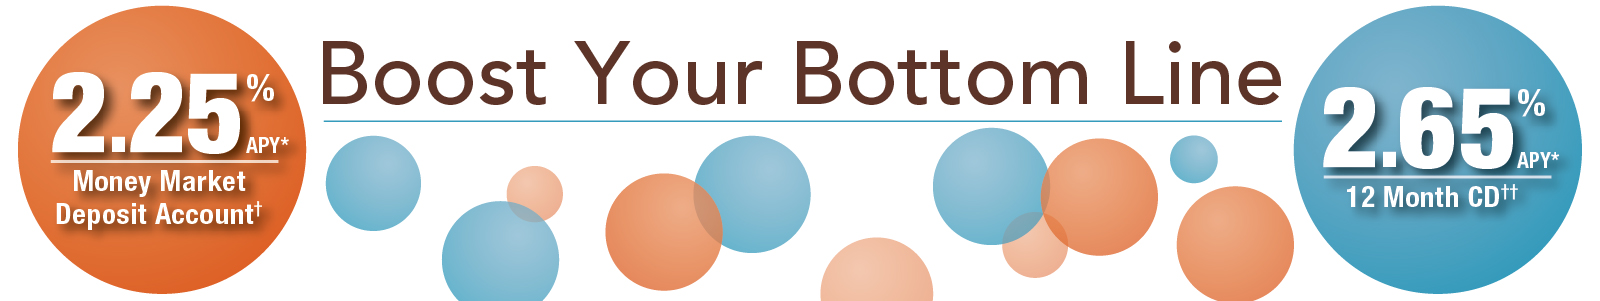
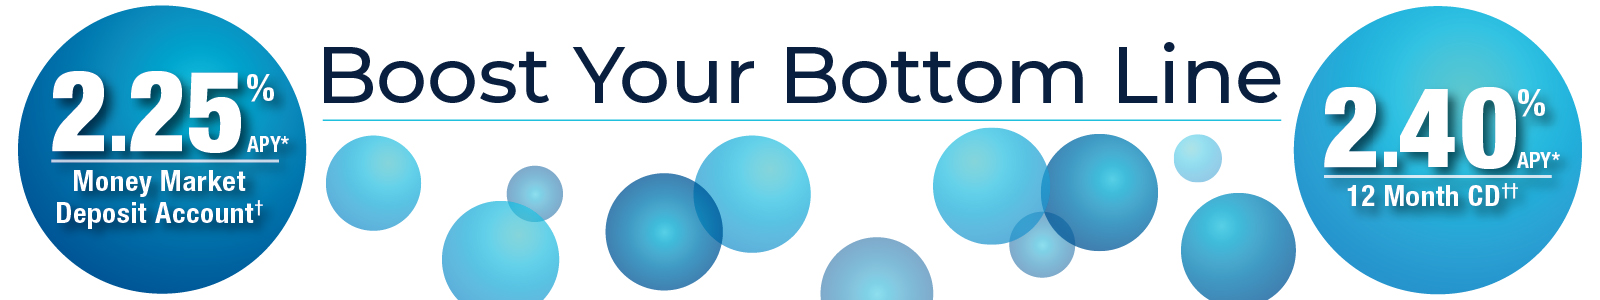
change to Money Market Promo

diff --git a/savings.html b/savings.html
@@ -137,7 +137,7 @@
               </div>
             </div><!-- row -->
             <div class="row spacer">
-              <p class="small para-margin"><sup>*</sup>Annual Percentage Yield (APY) <sup>†</sup>Money Market Deposit Account: Promotional rate of 2.25% APY for new accounts effective as of 11/12/18 and guaranteed for the first 365 days after account opening. Promotional rate offered on $10,000.00 or more of new money not currently on deposit within last 30 days with CIBM Bank. Minimum opening deposit of $100.00. The interest rate is subject to change at any time after initial 365 days. As of 10/10/18 Personal Money Market balances of $0.00-$9,999.99 (.08% APY); $10,000.00-$24,999.99 (.10% APY); $25,000.00-$49,999.99 (.13% APY); $50,000.00-$99,999.99 (.14% APY); $100,000.00 and above (.15% APY). Monthly fee $2.00 per debit if $1,000.00 minimum balance not maintained. As of 10/10/18 Business Money Market balances of $0.00-$9,999.99 (.08% APY); $10,000.00-$24,999.99 (.10% APY); $25,000.00-$49,999.99 (.13% APY); $50,000.00-$99,999.99 (.14% APY); $100,000.00 and above (.15% APY). Monthly fee $15.00 service charge if $5,000.00 minimum balance not maintained. Fees may reduce earnings. Accounts closed within 6 months of opening date subject to a $25.00 closing fee.  <sup>††</sup>12 Month Certificate of Deposit & IRA: Promotional rate of 2.65% (APY) effective as of 11/14/18 and guaranteed for the term of the account. Offer limited to $10,000.00 or more of new money not currently on deposit within last 30 days with CIBM Bank. Minimum opening deposit of $2,500.00 and a maximum of $250,000.00. Withdrawals made prior to maturity may be subject to an early withdrawal penalty. Offer not available in combination with any other offer.</p>
+              <p class="small para-margin"><sup>*</sup>Annual Percentage Yield (APY) <sup>†</sup>Money Market Deposit Account: Promotional rate of 2.25% APY for new accounts effective as of 11/12/18 and guaranteed for the first 365 days after account opening. Promotional rate offered on $10,000.00 or more of new money not currently on deposit within last 30 days with CIBM Bank. Minimum opening deposit of $100.00. The interest rate is subject to change at any time after initial 365 days. As of 10/10/18 Personal Money Market balances of $0.00-$9,999.99 (.08% APY); $10,000.00-$24,999.99 (.10% APY); $25,000.00-$49,999.99 (.13% APY); $50,000.00-$99,999.99 (.14% APY); $100,000.00 and above (.15% APY). Monthly fee $2.00 per debit if $1,000.00 minimum balance not maintained. As of 10/10/18 Business Money Market balances of $0.00-$9,999.99 (.08% APY); $10,000.00-$24,999.99 (.10% APY); $25,000.00-$49,999.99 (.13% APY); $50,000.00-$99,999.99 (.14% APY); $100,000.00 and above (.15% APY). Monthly fee $15.00 service charge if $5,000.00 minimum balance not maintained. Fees may reduce earnings. Accounts closed within 6 months of opening date subject to a $25.00 closing fee.  <sup>††</sup>12 Month Certificate of Deposit & IRA: Promotional rate of 2.40% (APY) effective as of 1/14/19 and guaranteed for the term of the account. Offer limited to $10,000.00 or more of new money not currently on deposit within last 30 days with CIBM Bank. Minimum opening deposit of $2,500.00 and a maximum of $250,000.00. Withdrawals made prior to maturity may be subject to an early withdrawal penalty. Offer not available in combination with any other offer.</p>
             </div><!-- row -->
             <div class="row spacer">
               <div class="col-md-6">
